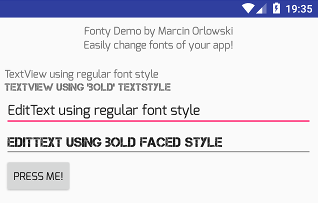
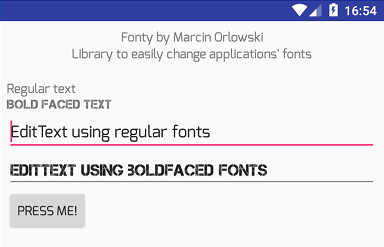
Updated docs

diff --git a/README.md b/README.md
@@ -13,6 +13,8 @@ Fonty
  
  ![Screenshot](img/shot.png)
  
+ Download demo application APK from [releases section](https://github.com/MarcinOrlowski/fonty/releases). Source code in project's [app/](https://github.com/MarcinOrlowski/fonty/tree/master/app/src/main) module.
+ 
 Installation
 ============
 
@@ -89,7 +91,18 @@ Layout files
  Once `Fonty` is properly initialied and applied, all supported widgets will automatically
  be convinced to use fonts of your choice. By default font set by `setRegularFont()` applies
  and to switch to boldface, simply set `android:textStyle="bold"` to element of 
- choice.
+ choice:
+ 
+
+        <TextView
+            android:text="This will use regular typeface" 
+            ... />
+
+        <EditText
+            android:text="This will use boldfaced typeface"
+            android:textStyle="bold"
+            ... />
+
 
 
 Project support
